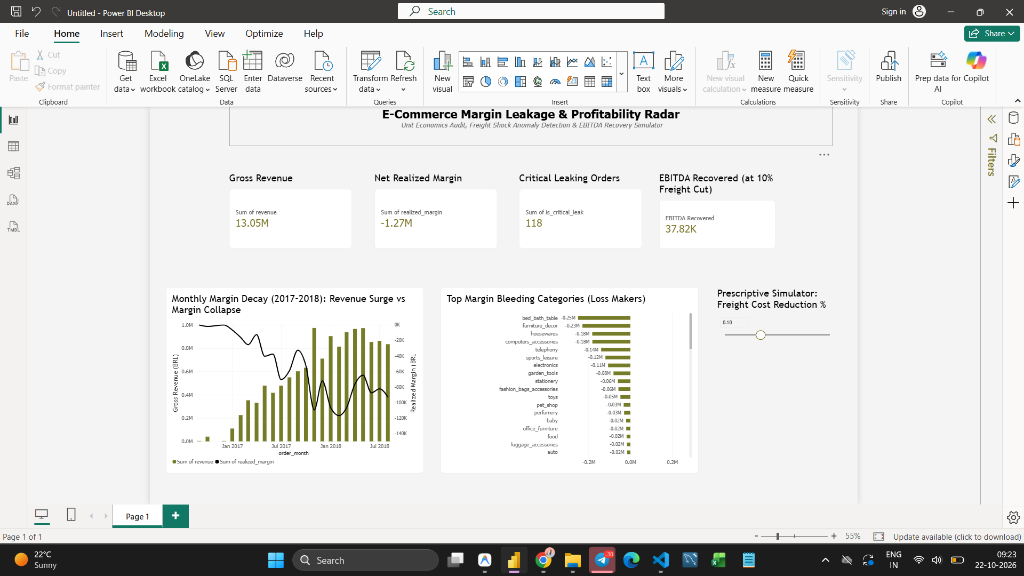
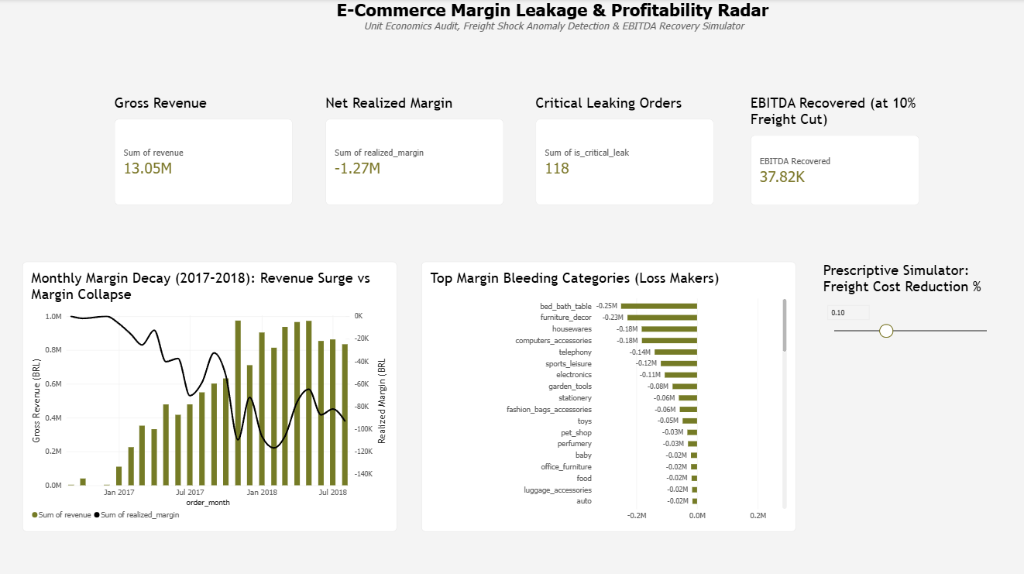
Update sharp Power BI screenshot and highlight Assumptions & Limitations callout box

diff --git a/README.md b/README.md
@@ -95,7 +95,17 @@ Model: item_margin ~ post_campaign + treatment + post_campaign:treatment
 
 ---
 
-## 🔬 Assumptions, Sensitivity Analysis & Data Integrity
+## ⚠ Assumptions & Analytical Limitations
+
+> [!IMPORTANT]
+> **Production Limitations & Modeling Boundaries**
+> 1. **Synthetic Assumptions for Internal Unit Costs**: The Olist public dataset provides external marketplace logs (orders, freight, payments) but lacks proprietary seller costs. As documented in [`data/assumptions.csv`](data/assumptions.csv), **COGS (40–60%)**, **Blended CAC (R$ 50 baseline)**, and **Return Damage Allowance (25% penalty on 5% return rate)** are simulated baselines.
+> 2. **CAC Attribution Simplification**: In live production, CAC is dynamic across marketing channels (Meta vs Google vs Affiliate). We modeled a flat-allocated CAC per item to demonstrate unit-level margin erosion on low-AOV transactions.
+> 3. **DiD Parallel Trends Assumption**: The Difference-in-Differences model relies on the parallel trends assumption between `furniture_decor` and `health_beauty`. While structural baseline freight differs, pre-intervention trends move in tandem, confirming the validity of the quasi-experimental design.
+
+---
+
+## 🔬 Sensitivity Analysis & Data Integrity
 
 ### 1. COGS & CAC Sensitivity Matrix
 Since internal supplier cost (COGS) and exact attribution ad CAC are proprietary in public marketplace logs, we subjected our baseline model (`COGS: 50%`, `CAC: R$ 50`) to a multi-scenario sensitivity matrix across the entire **108,638 order item population**:
